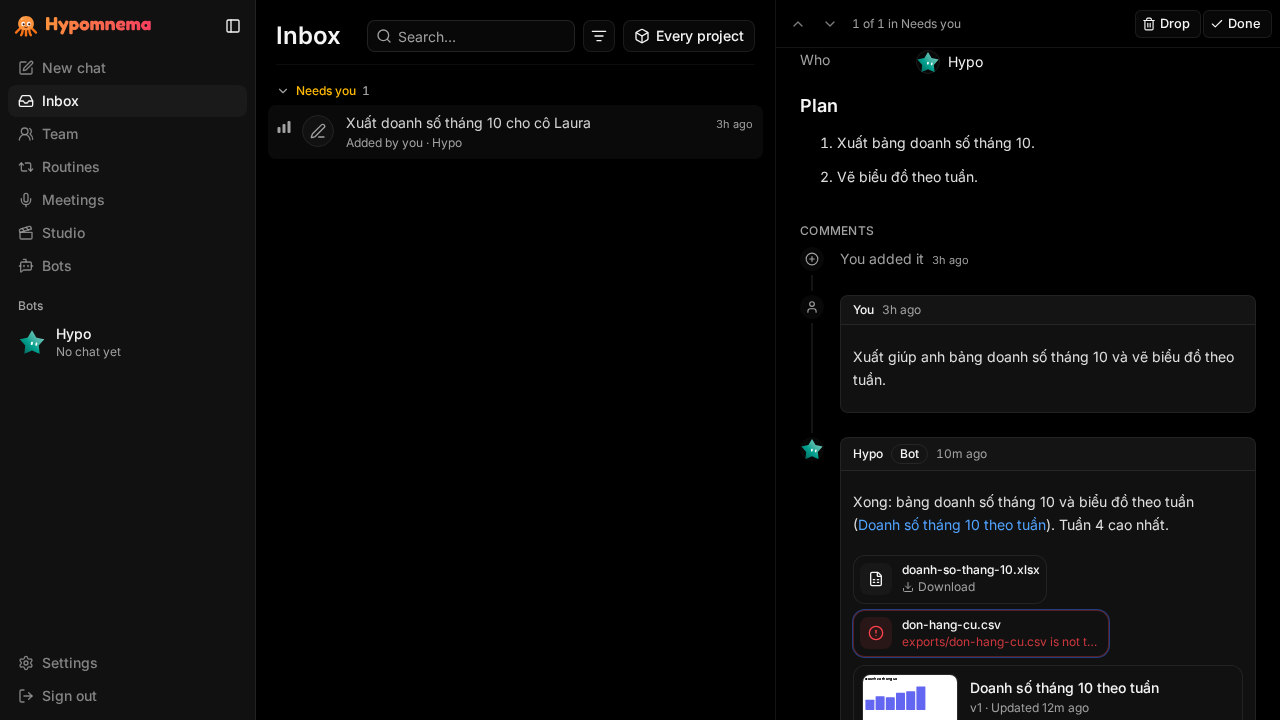
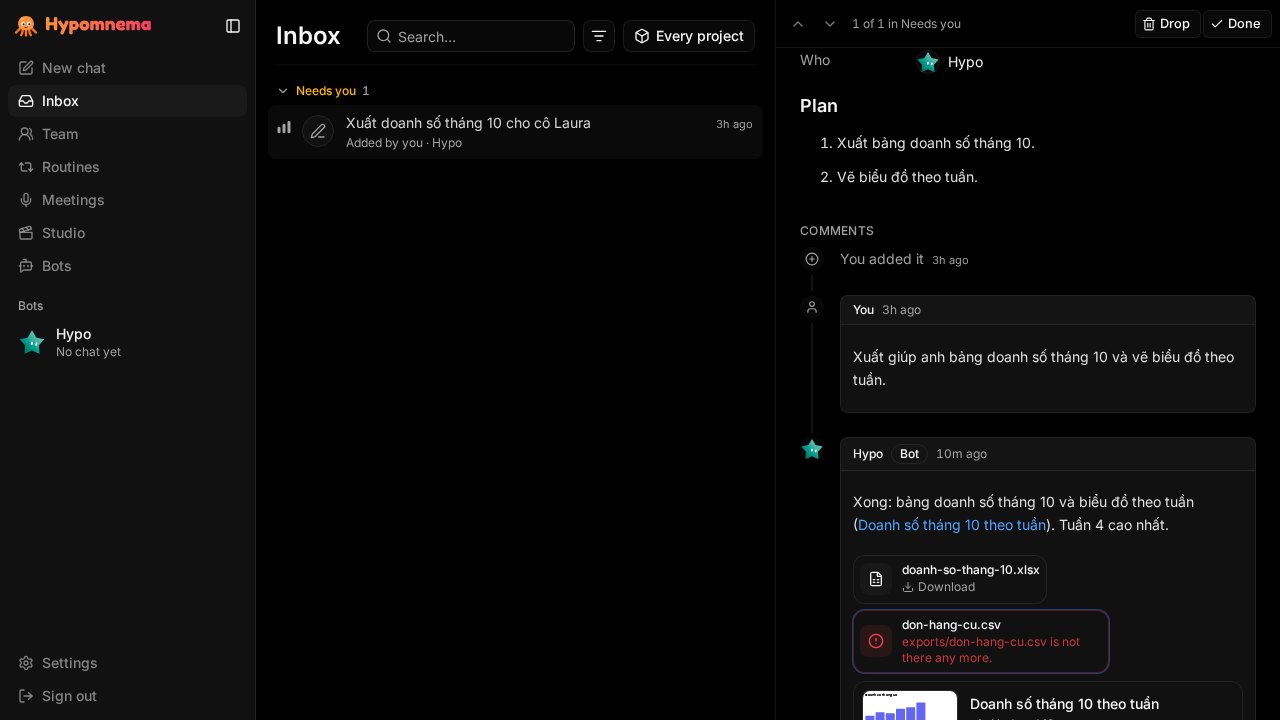
screenshots for #1207, after review

Changed region(s): [[0.6562, 0.8861, 0.9062, 1.0], [0.8438, 0.8861, 0.875, 0.9167]]

diff --git a/index.html b/index.html
@@ -5,7 +5,7 @@
 <h2>The result</h2>
 <figure><img src="inbox-1207-result-desktop.png"><figcaption>Desktop</figcaption></figure>
 <figure><img src="inbox-1207-result-phone.png"><figcaption>Phone</figcaption></figure>
-<h2>A file no longer in the Bot's folder: the chip turns red with the server's message</h2>
+<h2>A file no longer in the Bot's folder: the chip turns red with the server's message, wrapped to be read whole</h2>
 <figure><img src="inbox-1207-missing-file-desktop.png"><figcaption>Desktop</figcaption></figure>
 <figure><img src="inbox-1207-missing-file-phone.png"><figcaption>Phone</figcaption></figure>
 </body></html>
